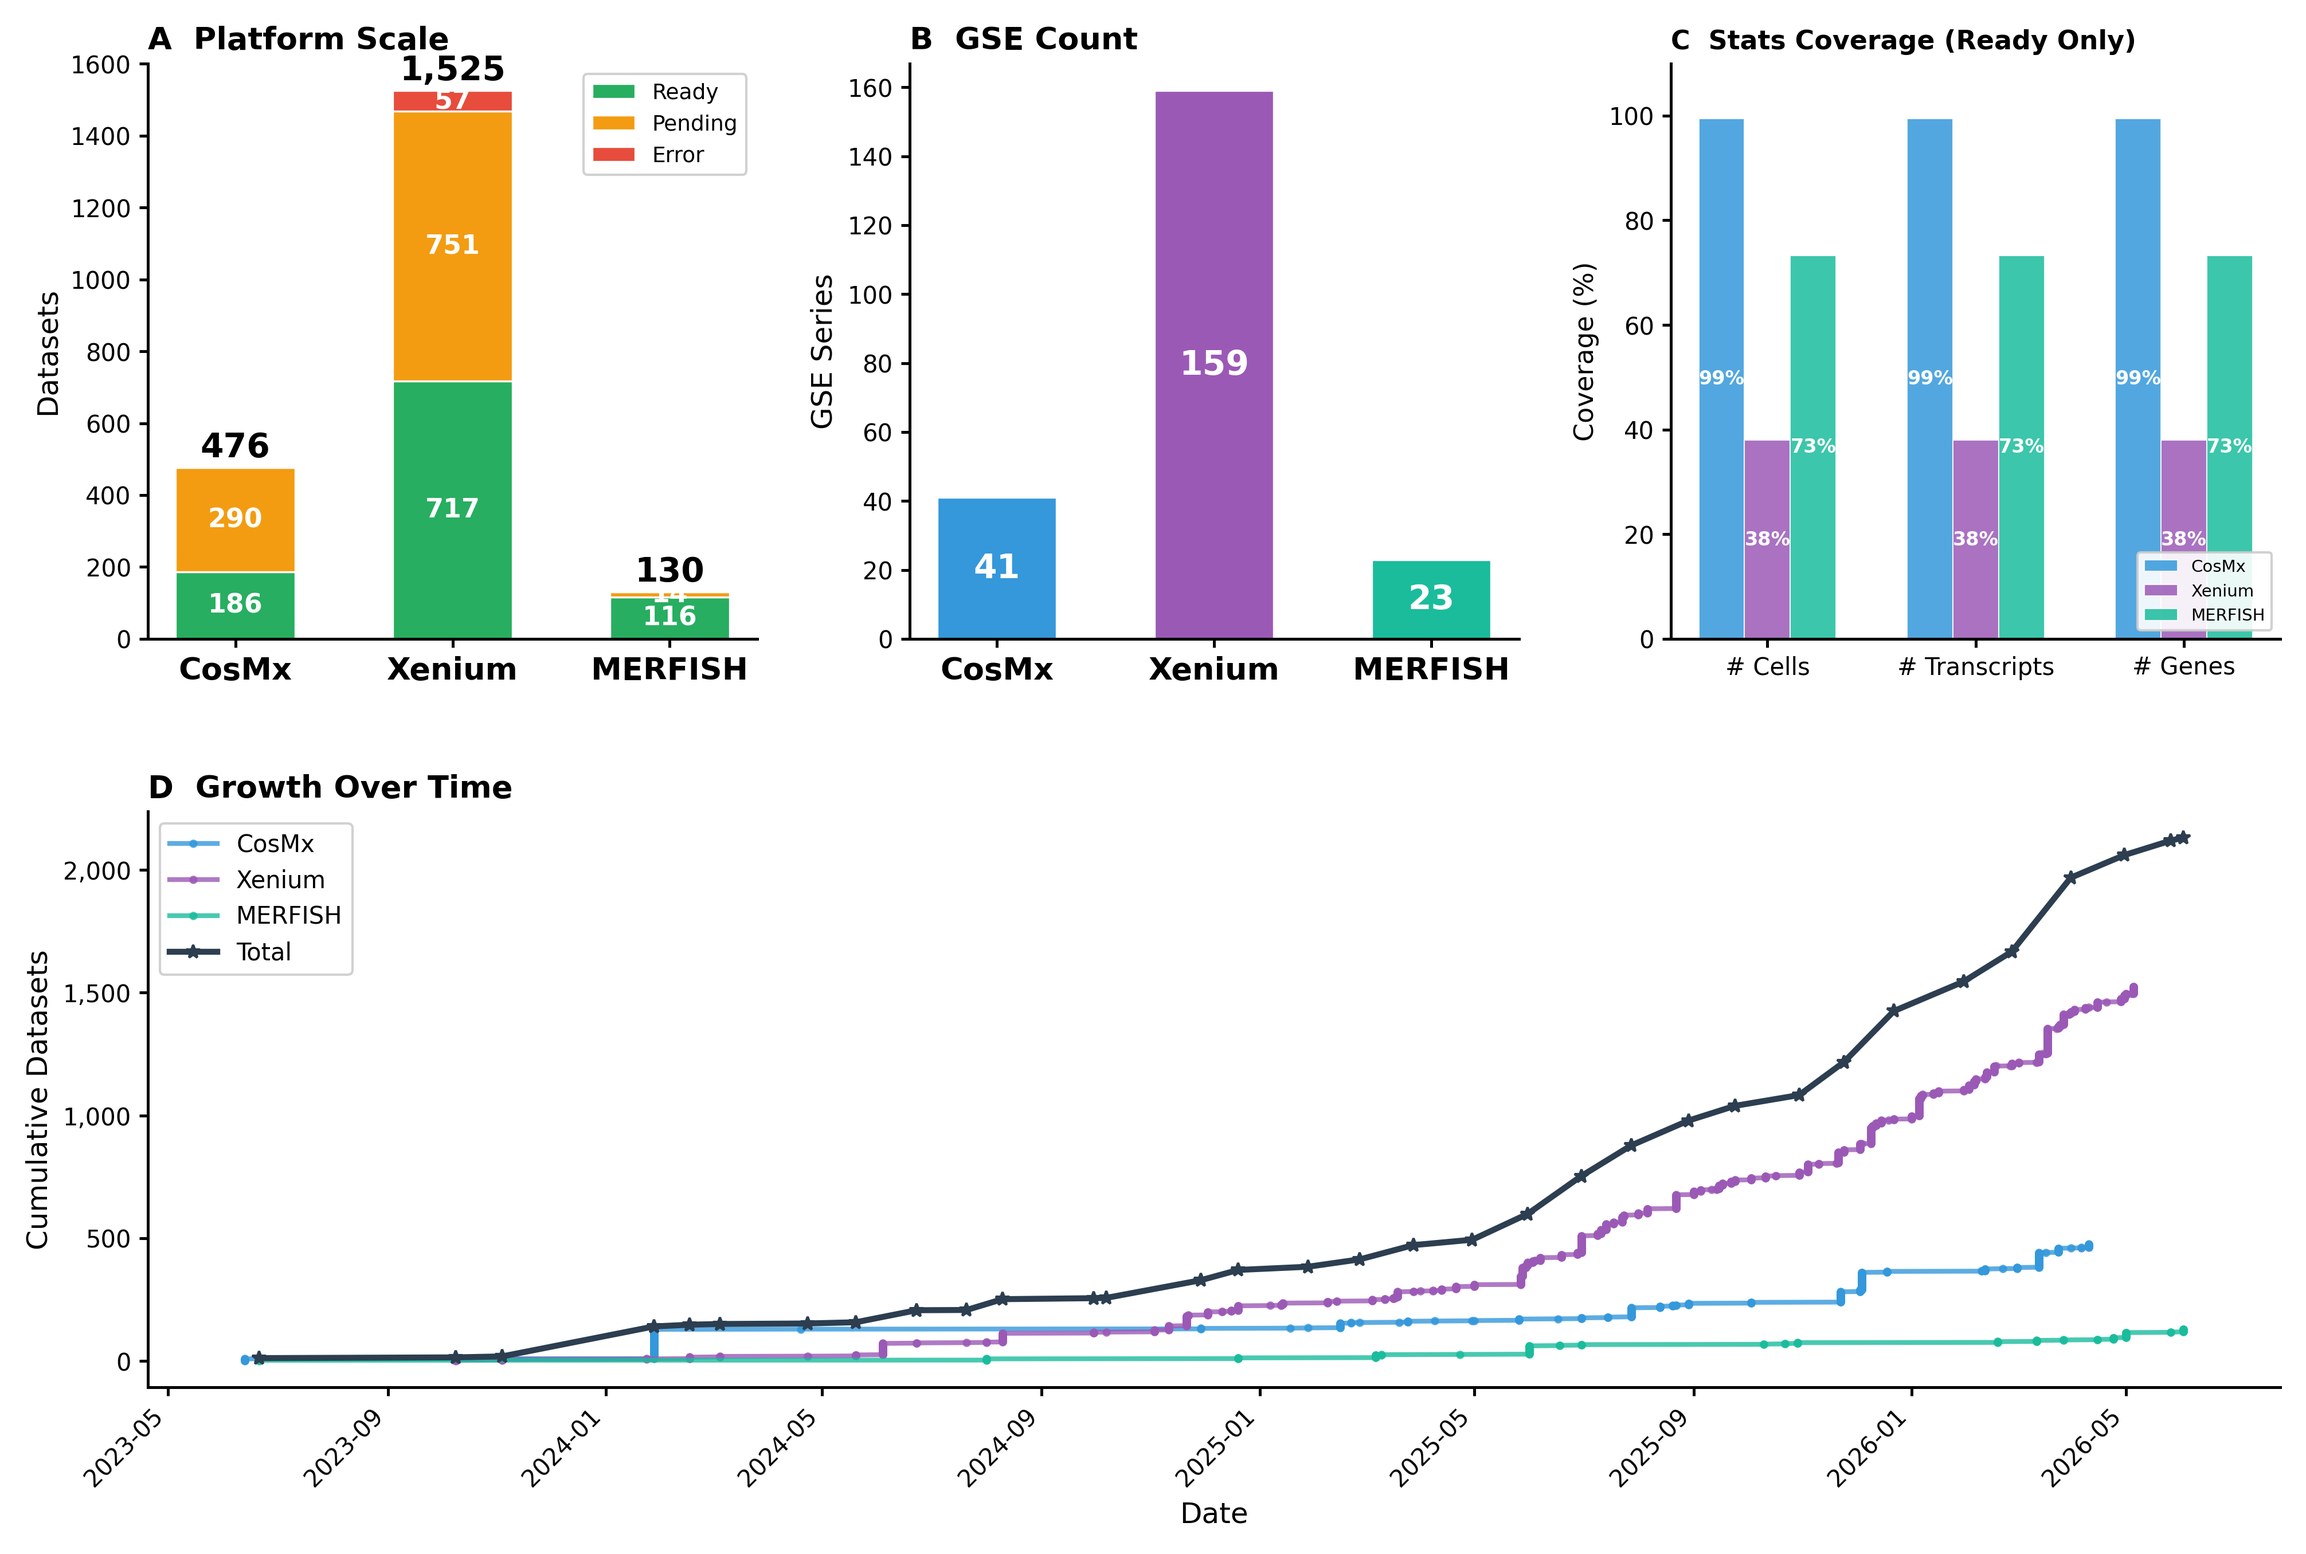
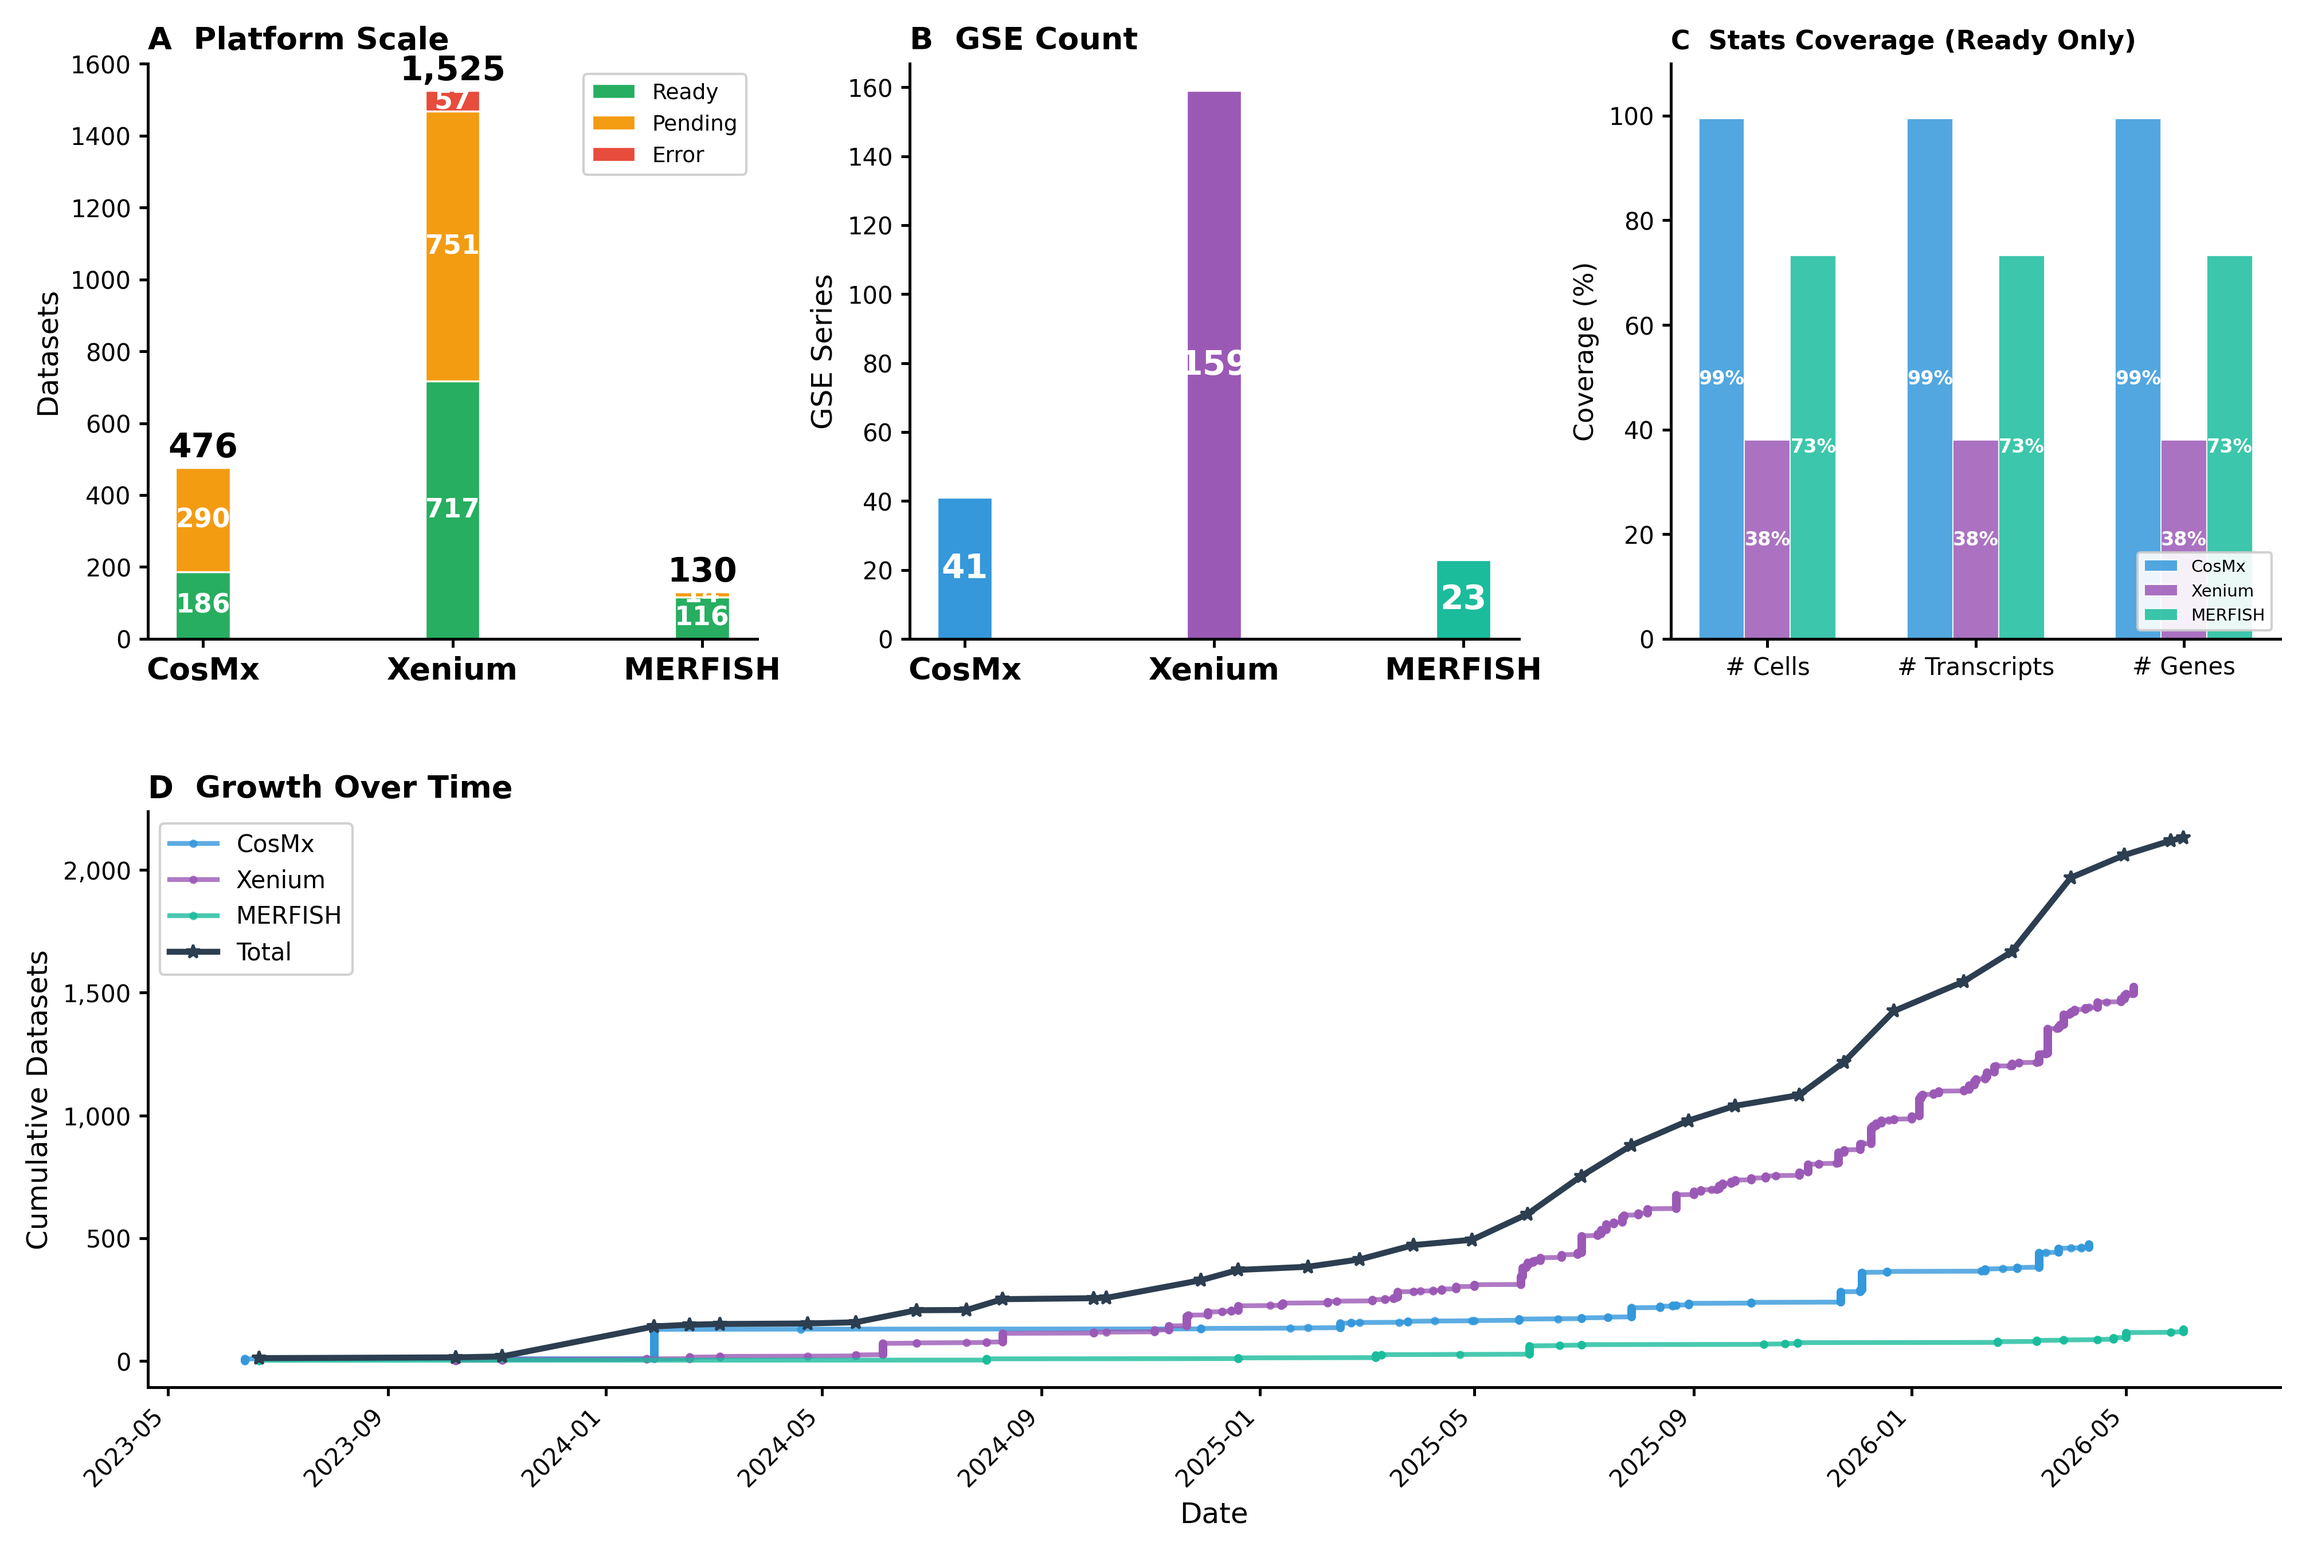
feat: complete small/ sub-figures — every big panel has a standalone version
Added 5 new small figures:
  fig1C_gse_counts.png        — GSE Count per platform
  fig1D_stats_coverage.png    — Stats coverage (cells/tx/genes) per platform
  fig2C_transcripts_violin.png — Transcripts per dataset violin
  fig2D_cells_violin.png      — Cells per dataset violin
  fig2E_genes_violin.png      — Genes per dataset violin

small/ now has 14 files, one per unique sub-panel across all 5 figures.

diff --git a/report/gen_paper_figures.py b/report/gen_paper_figures.py
@@ -170,6 +170,46 @@ def fig1():
     fig.savefig(OUT / 'small' / 'fig1B_growth.png', dpi=300)
     plt.close(fig)
 
+    # ── 小图 C: GSE 数量 ────────────────────────────────────────
+    fig, ax = plt.subplots(figsize=(7, 5))
+    x = np.arange(3)
+    gse_vals = [gse_per_platform[p] for p in PLATFORMS]
+    bars = ax.bar(x, gse_vals, 0.55, color=PLAT_COLORS, edgecolor='white', lw=0.8)
+    for bar, v in zip(bars, gse_vals):
+        ax.text(bar.get_x()+0.55/2, bar.get_y()+v/2, str(v), ha='center',
+                va='center', fontsize=16, fontweight='bold', color='white')
+    ax.set_xticks(x)
+    ax.set_xticklabels(PLATFORMS, fontsize=16, fontweight='bold')
+    ax.set_ylabel('GSE Series', fontsize=13)
+    ax.tick_params(axis='y', labelsize=11)
+    ax.set_title('GSE Count by Platform', fontsize=14, fontweight='bold')
+    fig.tight_layout()
+    fig.savefig(OUT / 'small' / 'fig1C_gse_counts.png', dpi=300)
+    plt.close(fig)
+
+    # ── 小图 D: 统计覆盖度 ──────────────────────────────────────
+    fig, ax = plt.subplots(figsize=(7, 5))
+    metrics = [('n_cells', '# Cells'), ('n_transcripts', '# Tx'), ('n_genes', '# Genes')]
+    x = np.arange(len(metrics)); w = 0.22
+    for i, p in enumerate(PLATFORMS):
+        ready = [r for r in all_data[p] if r.get('status','').strip()=='ready']
+        n = max(len(ready), 1)
+        vals = [sum(1 for r in ready if r.get(mk,'').strip()) / n * 100 for mk, _ in metrics]
+        bars = ax.bar(x + (i-1)*w, vals, w, label=p, color=PLAT_COLORS[i],
+                      edgecolor='white', lw=0.5, alpha=0.85)
+        for bar, v in zip(bars, vals):
+            ax.text(bar.get_x()+w/2, bar.get_y()+v/2, f'{v:.0f}%',
+                    ha='center', va='center', fontsize=10, fontweight='bold', color='white')
+    ax.set_xticks(x)
+    ax.set_xticklabels(['# Cells', '# Transcripts', '# Genes'], fontsize=11)
+    ax.set_ylabel('Coverage (%)', fontsize=12)
+    ax.set_ylim(0, 110)
+    ax.set_title('Stats Coverage (Ready Only)', fontsize=14, fontweight='bold')
+    ax.legend(fontsize=9, loc='lower right', framealpha=0.9)
+    fig.tight_layout()
+    fig.savefig(OUT / 'small' / 'fig1D_stats_coverage.png', dpi=300)
+    plt.close(fig)
+
     # ── 大图: 4 面板 ────────────────────────────────────────────
     fig = plt.figure(figsize=(16, 10))
     gs = fig.add_gridspec(2, 3, hspace=0.3, wspace=0.25)
@@ -347,6 +387,72 @@ def fig2():
     ax.legend(fontsize=9, loc='lower right')
     fig.tight_layout()
     fig.savefig(OUT / 'small' / 'fig2B_metadata.png', dpi=300)
+    plt.close(fig)
+
+    # ── 小图 C: 小提琴 n_transcripts ────────────────────────────
+    fig, ax = plt.subplots(figsize=(7, 5))
+    positions = []; all_v = []; labels_p = []
+    for i, p in enumerate(PLATFORMS):
+        v = violins[p]['n_transcripts']
+        if not v: continue
+        positions.append(i); all_v.append(np.log10(v)); labels_p.append(p)
+    parts = ax.violinplot(all_v, positions=positions, showmedians=True, widths=0.6)
+    for pc in parts['bodies']: pc.set_alpha(0.3)
+    for i, (p, color) in enumerate(zip(PLATFORMS, PLAT_COLORS)):
+        if violins[p]['n_transcripts']:
+            parts['bodies'][i].set_facecolor(color)
+        med = np.median(violins[p]['n_transcripts'])
+        ax.text(i, np.log10(med)+0.05, f'{med:,.0f}', ha='center', fontsize=11, fontweight='bold')
+    ax.set_xticks(range(len(PLATFORMS)))
+    ax.set_xticklabels(PLATFORMS, fontsize=14, fontweight='bold')
+    ax.set_ylabel('log₁₀(Transcripts)', fontsize=12)
+    ax.set_title('Transcripts per Dataset', fontsize=14, fontweight='bold')
+    fig.tight_layout()
+    fig.savefig(OUT / 'small' / 'fig2C_transcripts_violin.png', dpi=300)
+    plt.close(fig)
+
+    # ── 小图 D: 小提琴 n_cells ──────────────────────────────────
+    fig, ax = plt.subplots(figsize=(7, 5))
+    positions = []; all_v = []
+    for i, p in enumerate(PLATFORMS):
+        v = violins[p]['n_cells']
+        if not v: continue
+        positions.append(i); all_v.append(np.log10(v))
+    parts = ax.violinplot(all_v, positions=positions, showmedians=True, widths=0.6)
+    for pc in parts['bodies']: pc.set_alpha(0.3)
+    for i, (p, color) in enumerate(zip(PLATFORMS, PLAT_COLORS)):
+        if violins[p]['n_cells']:
+            parts['bodies'][i].set_facecolor(color)
+        med = np.median(violins[p]['n_cells'])
+        ax.text(i, np.log10(med)+0.05, f'{med:,.0f}', ha='center', fontsize=11, fontweight='bold')
+    ax.set_xticks(range(len(PLATFORMS)))
+    ax.set_xticklabels(PLATFORMS, fontsize=14, fontweight='bold')
+    ax.set_ylabel('log₁₀(Cells)', fontsize=12)
+    ax.set_title('Cells per Dataset', fontsize=14, fontweight='bold')
+    fig.tight_layout()
+    fig.savefig(OUT / 'small' / 'fig2D_cells_violin.png', dpi=300)
+    plt.close(fig)
+
+    # ── 小图 E: 小提琴 n_genes ──────────────────────────────────
+    fig, ax = plt.subplots(figsize=(7, 5))
+    positions = []; all_v = []
+    for i, p in enumerate(PLATFORMS):
+        v = violins[p]['n_genes']
+        if not v: continue
+        positions.append(i); all_v.append(np.log10(v))
+    parts = ax.violinplot(all_v, positions=positions, showmedians=True, widths=0.6)
+    for pc in parts['bodies']: pc.set_alpha(0.3)
+    for i, (p, color) in enumerate(zip(PLATFORMS, PLAT_COLORS)):
+        if violins[p]['n_genes']:
+            parts['bodies'][i].set_facecolor(color)
+        med = np.median(violins[p]['n_genes'])
+        ax.text(i, np.log10(med)+0.05, f'{med:,.0f}', ha='center', fontsize=11, fontweight='bold')
+    ax.set_xticks(range(len(PLATFORMS)))
+    ax.set_xticklabels(PLATFORMS, fontsize=14, fontweight='bold')
+    ax.set_ylabel('log₁₀(Genes)', fontsize=12)
+    ax.set_title('Genes per Dataset', fontsize=14, fontweight='bold')
+    fig.tight_layout()
+    fig.savefig(OUT / 'small' / 'fig2E_genes_violin.png', dpi=300)
     plt.close(fig)
 
     # ── 大图: 5 面板 (A/B 各半宽) ──────────────────────────────
